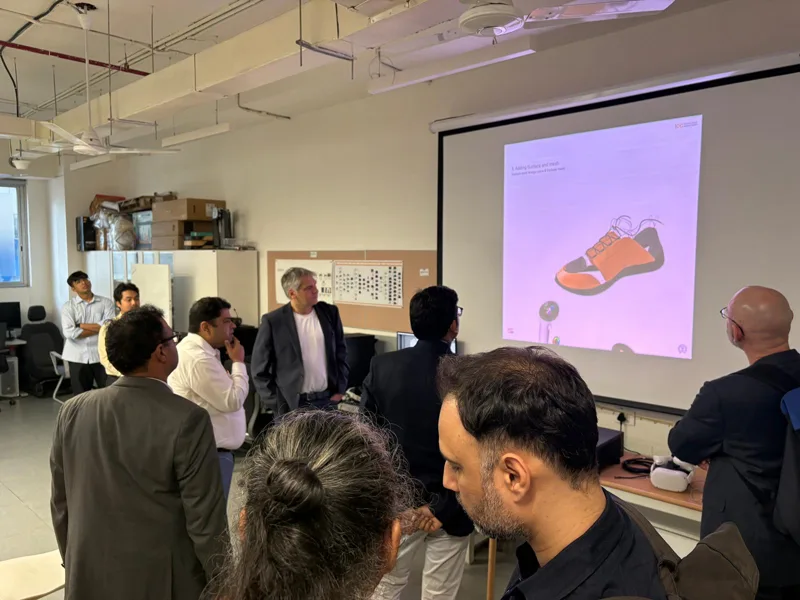
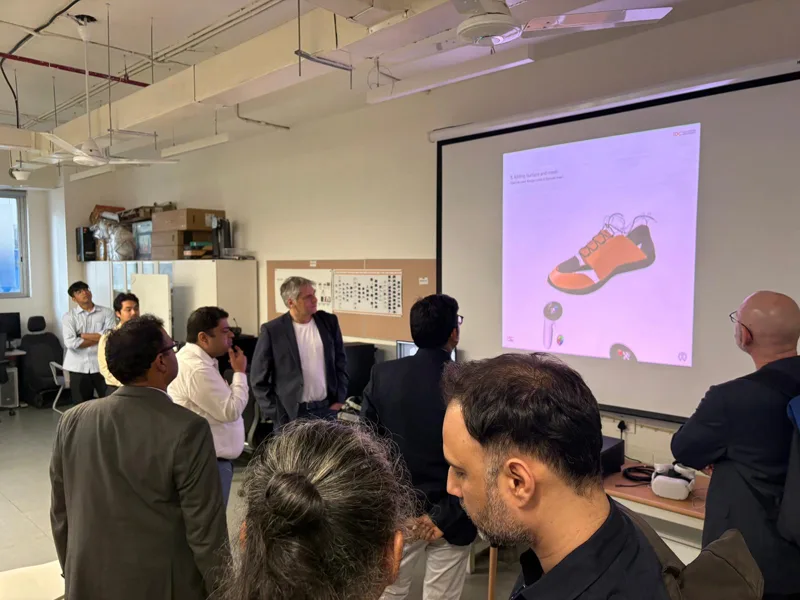
feat: add real photos for India HCI, Autodesk, TU Delft, and Showcase events

diff --git a/src/app/pages/EventsFigma.tsx b/src/app/pages/EventsFigma.tsx
@@ -1,11 +1,11 @@
 import svgPaths from "../../imports/Events/svg-zf6phw8csl";
-import imgImg from "../../imports/Events/d3aed7537a93b27db628187b474a489f77626ed1.webp";
+import imgImg from "../../imports/Events/indiahci_event.webp";
 import imgImg1 from "../../imports/Events/animela_event.webp";
 import imgImg2 from "../../imports/Events/autodesk_visit.webp";
 import imgImg3 from "../../imports/Events/95b11a16d2bfdbf37864363434e1b464dddec7b3.webp";
 import imgImg4 from "../../imports/Events/drdo_event.webp";
-import imgImg5 from "../../imports/Events/d0f1c5100abcea3662aa308b703dc16f4f10c286.webp";
-import imgImg6 from "../../imports/Events/02cf1d82969abaaafc2ec0f566091188ada0e382.webp";
+import imgImg5 from "../../imports/Events/tudelft_event.webp";
+import imgImg6 from "../../imports/Events/showcase_event.webp";
 import imgImg7 from "../../imports/Events/1beaac6010fb1a0baf239fe8525c592b2cde9a33.webp";
 import { PageHeader } from "../components/PageHeader";
 import { useState } from "react";